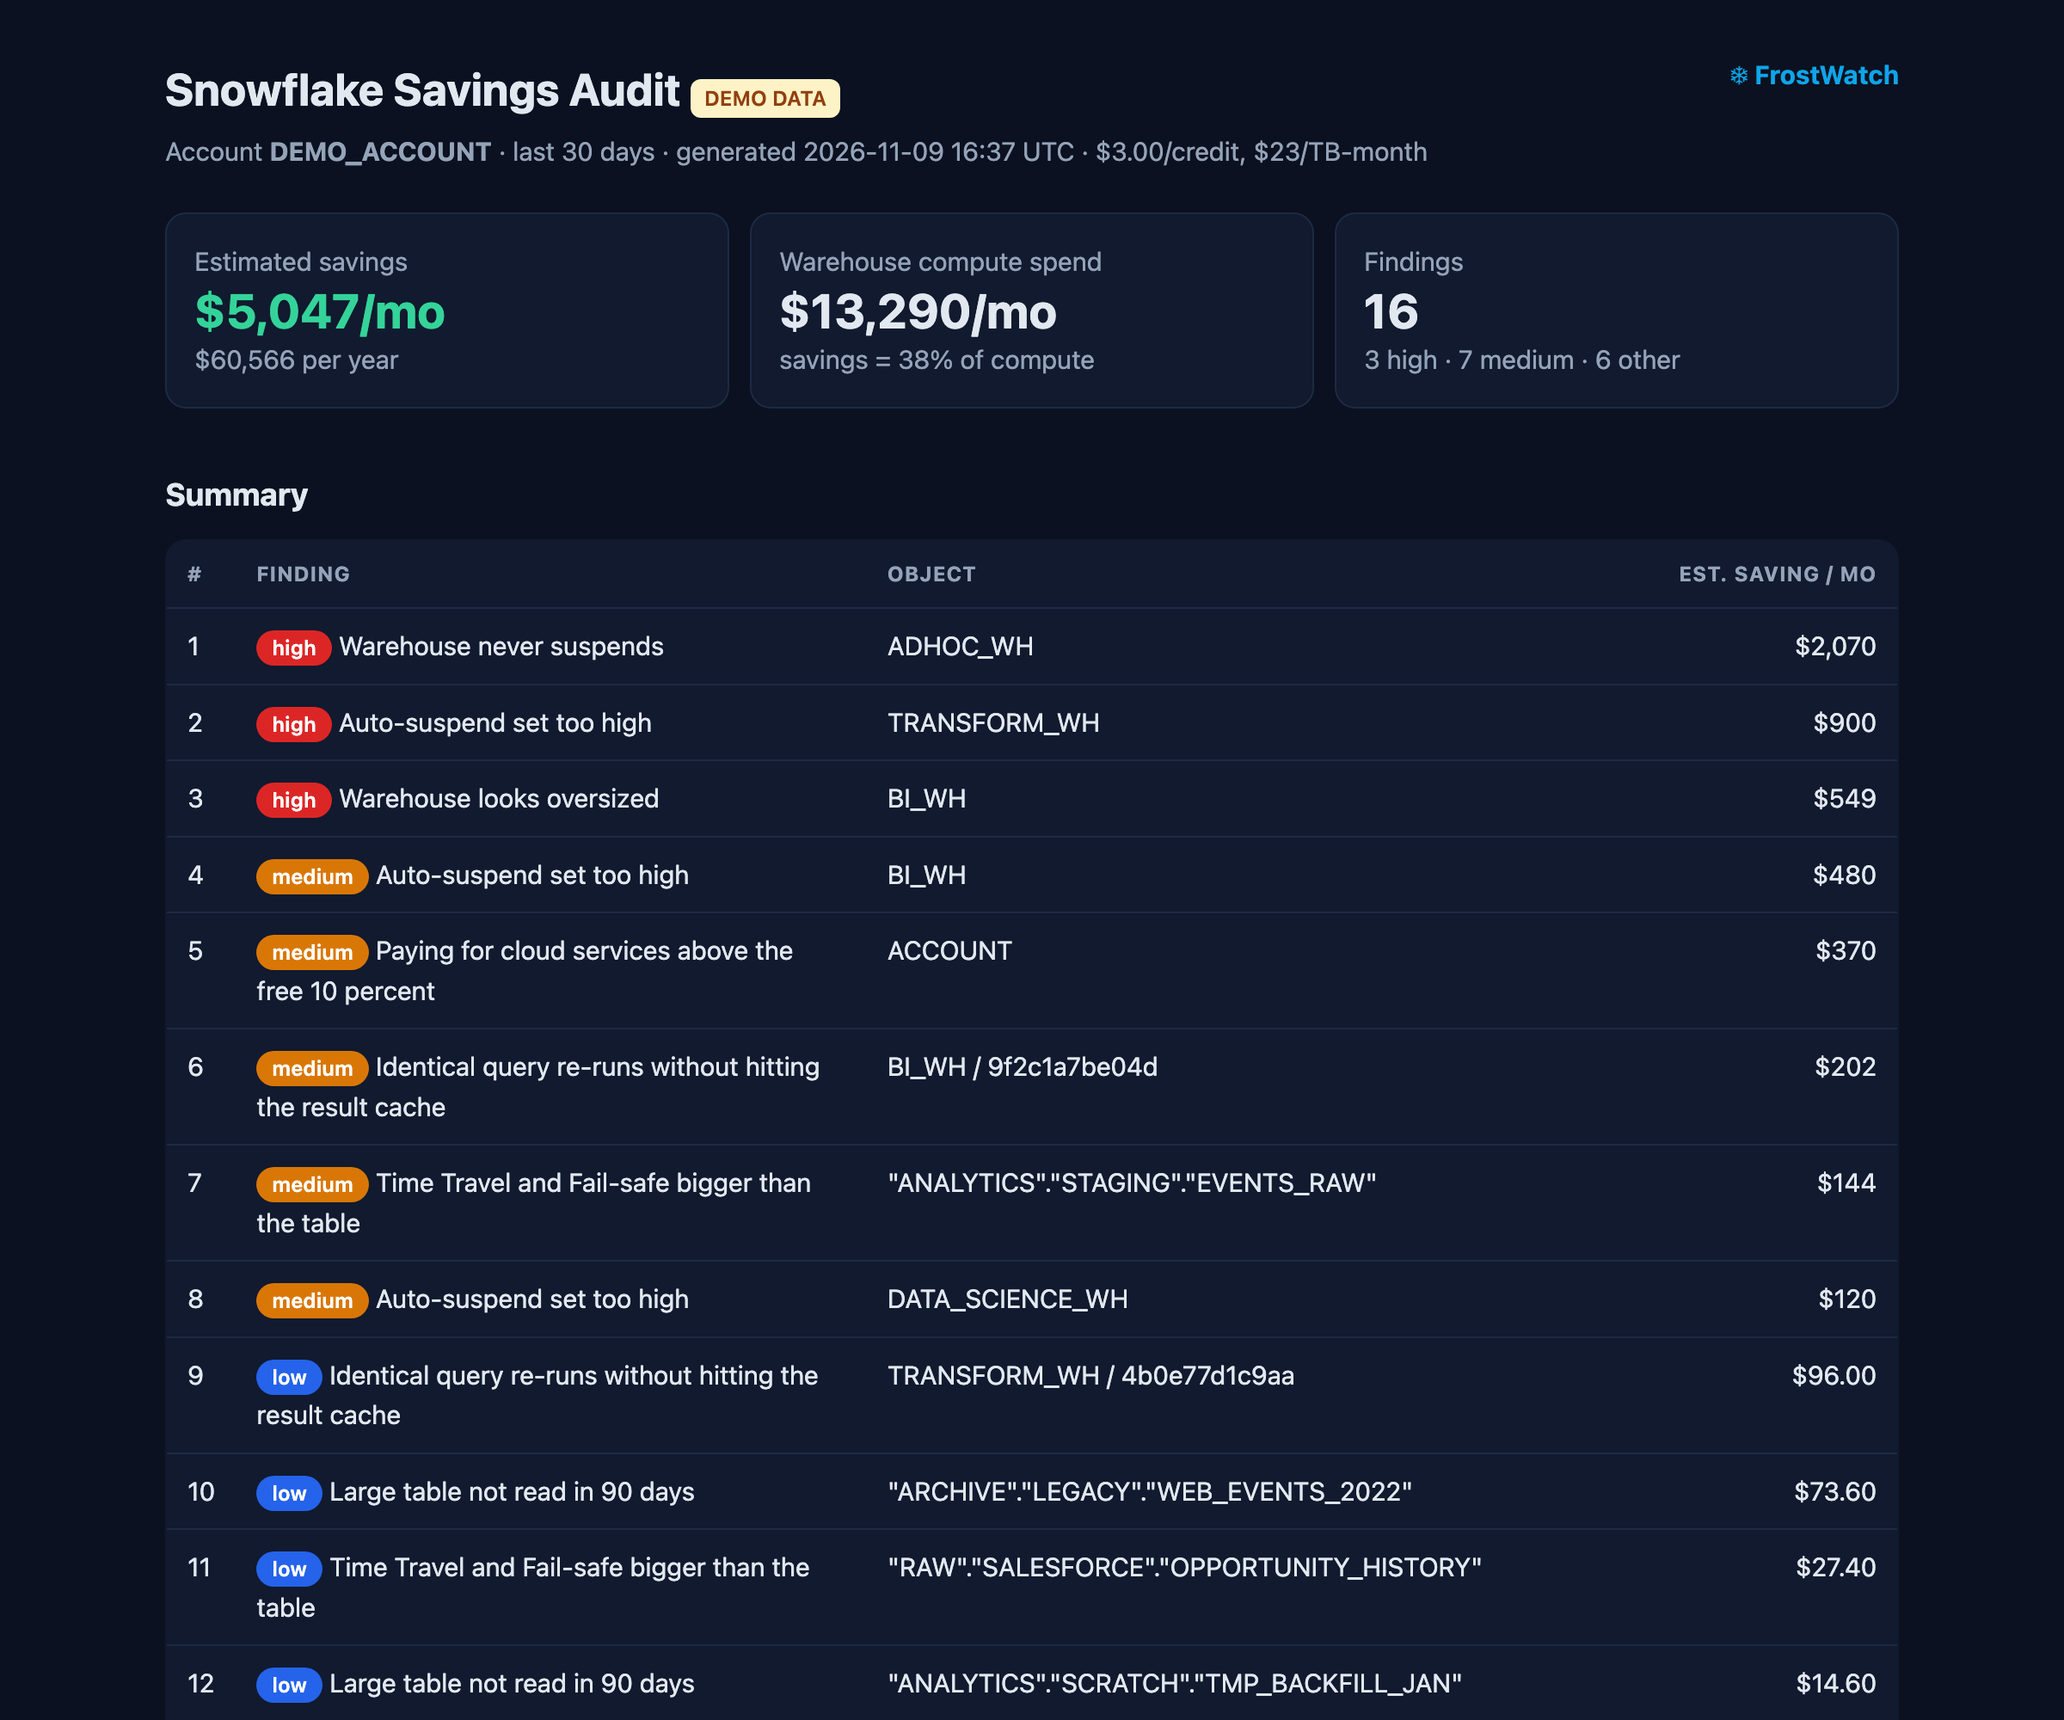
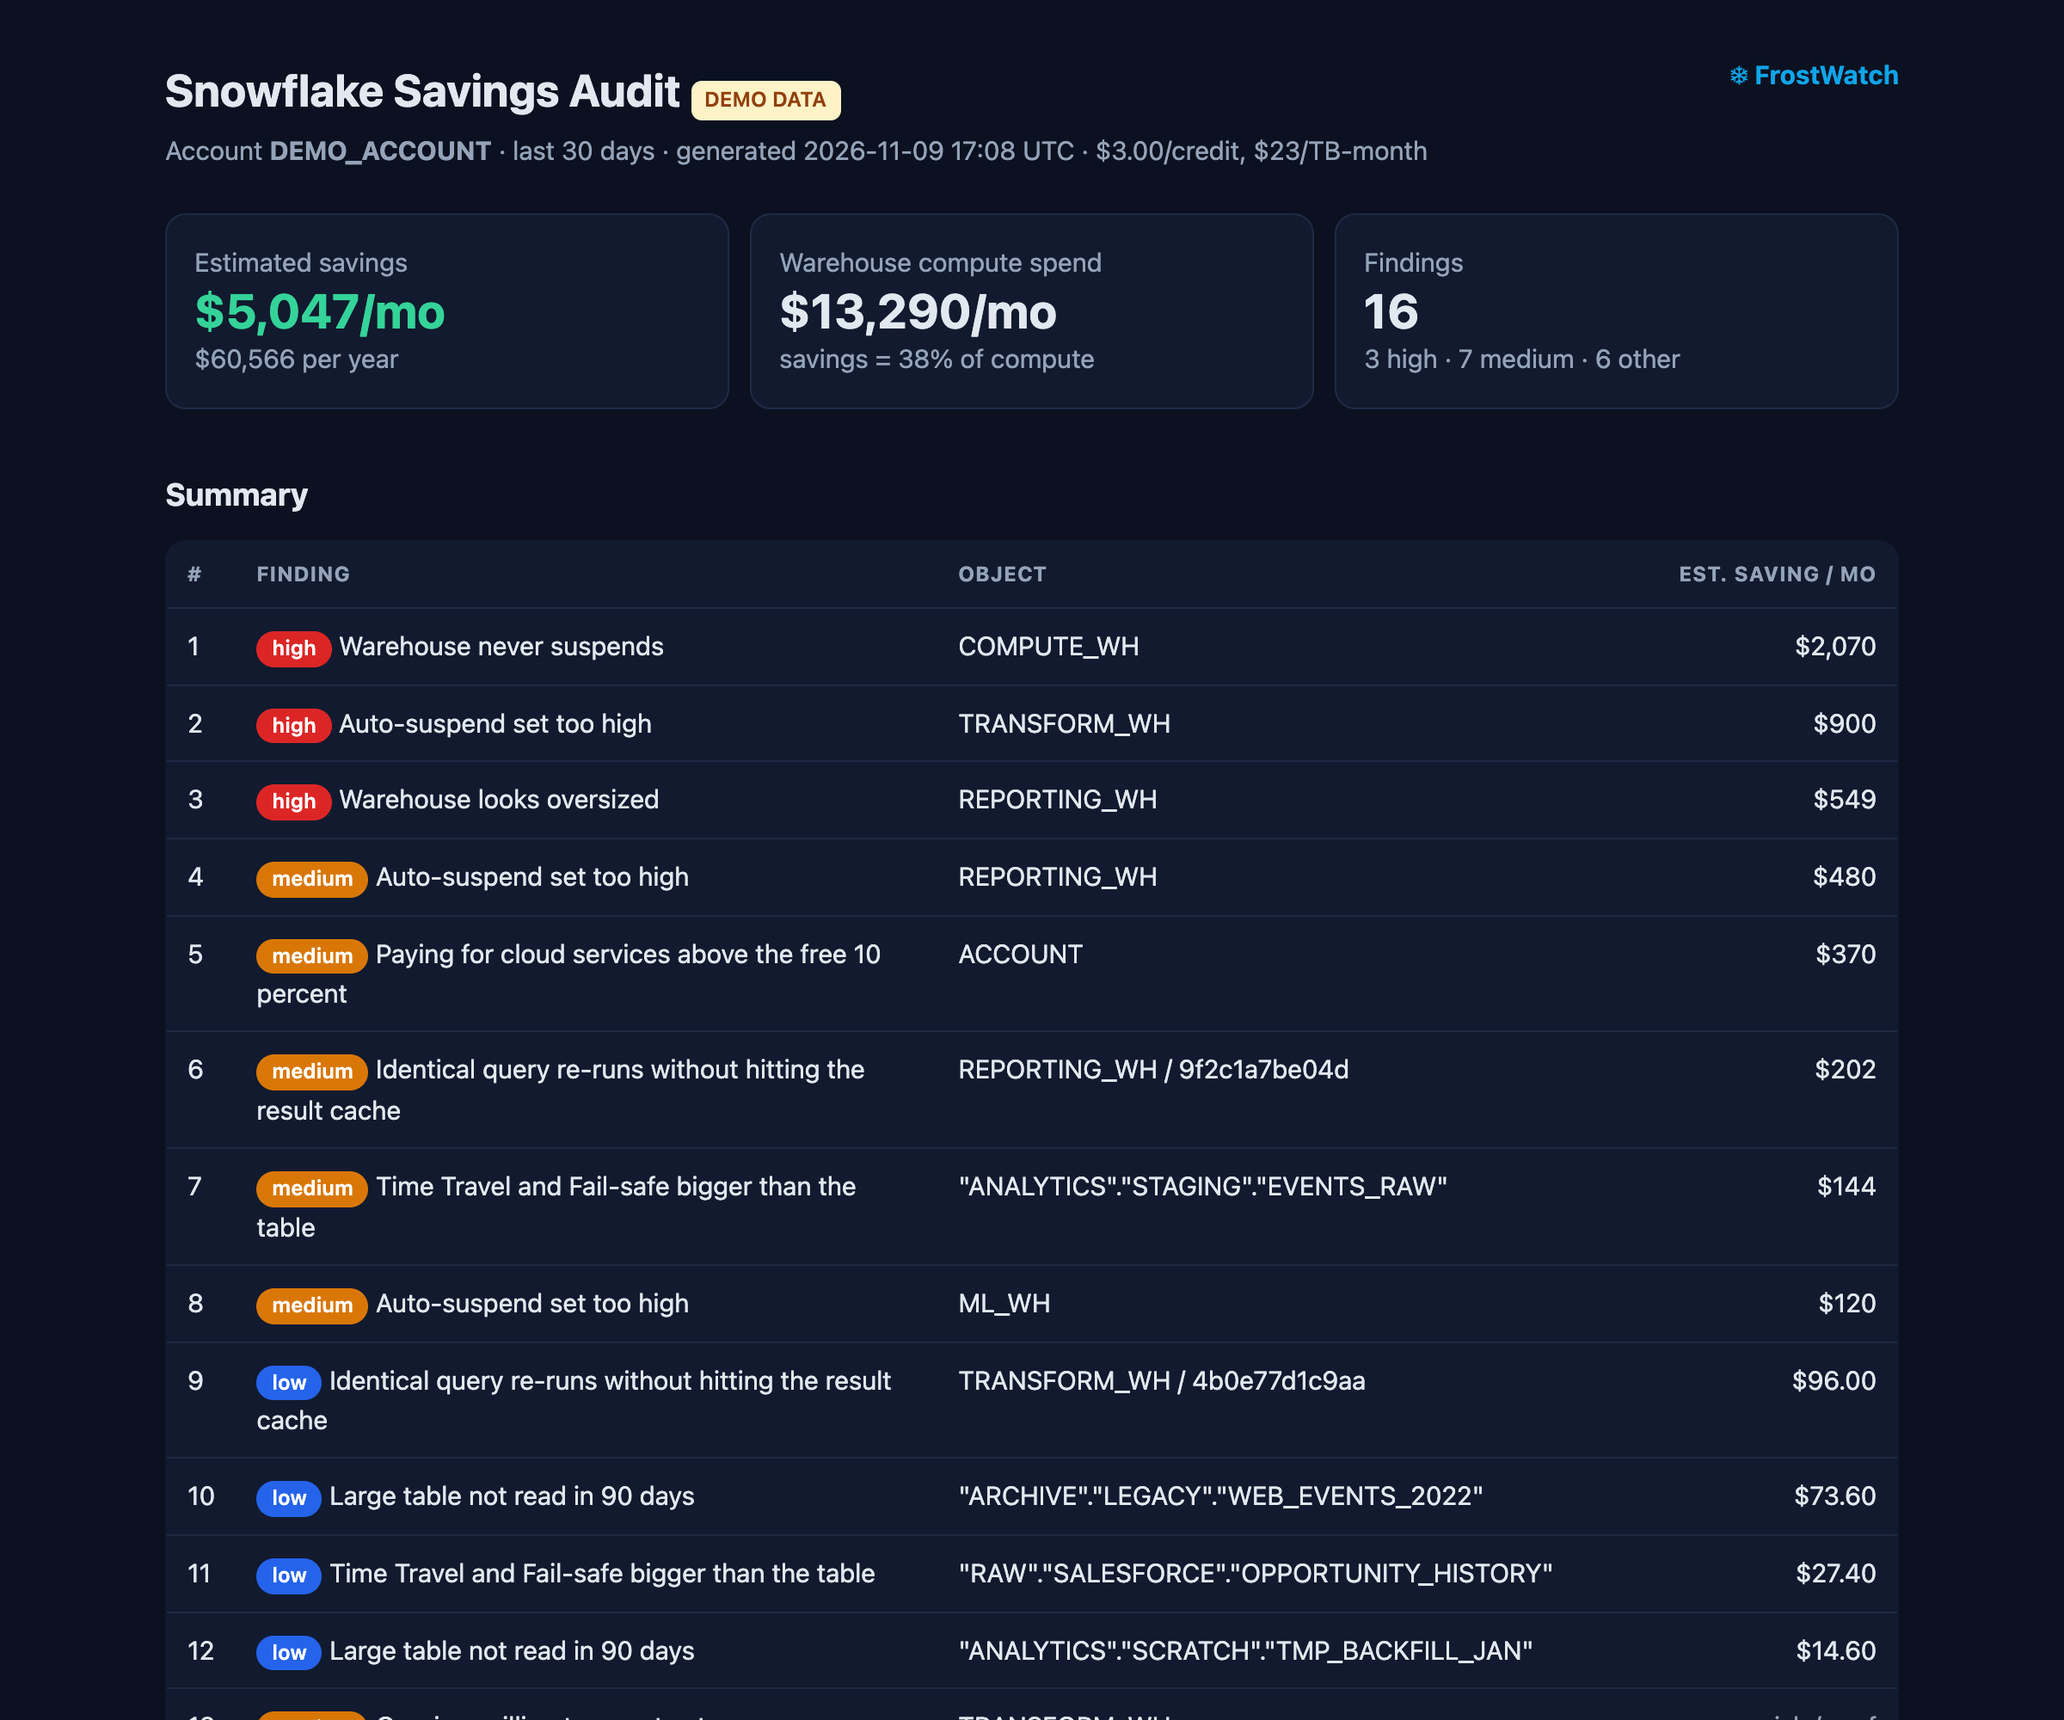
Deployed 3d9e369 with MkDocs version: 1.6.1

diff --git a/sample-audit.html b/sample-audit.html
@@ -45,7 +45,7 @@ footer{margin-top:28px;font-size:13px}a{color:var(--accent)}
   <div>
     <h1>Snowflake Savings Audit <span class="demo">DEMO DATA</span></h1>
     <div class="mute">Account <b>DEMO_ACCOUNT</b> &middot; last 30 days
-      &middot; generated 2026-11-09 16:42 UTC
+      &middot; generated 2026-11-09 17:10 UTC
       &middot; $3.00/credit, $23/TB-month</div>
   </div>
   <a class="brand" href="https://github.com/arunrajiah/frostwatch">&#10052; FrostWatch</a>
@@ -66,7 +66,7 @@ footer{margin-top:28px;font-size:13px}a{color:var(--accent)}
   <tr><th>#</th><th>Finding</th><th>Object</th><th class="num">Est. saving / mo</th></tr>
   
   <tr><td>1</td><td><span class="pill high">high</span> Warehouse never suspends</td>
-    <td class="obj">ADHOC_WH</td>
+    <td class="obj">COMPUTE_WH</td>
     <td class="num">$2,070</td></tr>
   
   <tr><td>2</td><td><span class="pill high">high</span> Auto-suspend set too high</td>
@@ -74,11 +74,11 @@ footer{margin-top:28px;font-size:13px}a{color:var(--accent)}
     <td class="num">$900</td></tr>
   
   <tr><td>3</td><td><span class="pill high">high</span> Warehouse looks oversized</td>
-    <td class="obj">BI_WH</td>
+    <td class="obj">REPORTING_WH</td>
     <td class="num">$549</td></tr>
   
   <tr><td>4</td><td><span class="pill medium">medium</span> Auto-suspend set too high</td>
-    <td class="obj">BI_WH</td>
+    <td class="obj">REPORTING_WH</td>
     <td class="num">$480</td></tr>
   
   <tr><td>5</td><td><span class="pill medium">medium</span> Paying for cloud services above the free 10 percent</td>
@@ -86,7 +86,7 @@ footer{margin-top:28px;font-size:13px}a{color:var(--accent)}
     <td class="num">$370</td></tr>
   
   <tr><td>6</td><td><span class="pill medium">medium</span> Identical query re-runs without hitting the result cache</td>
-    <td class="obj">BI_WH / 9f2c1a7be04d</td>
+    <td class="obj">REPORTING_WH / 9f2c1a7be04d</td>
     <td class="num">$202</td></tr>
   
   <tr><td>7</td><td><span class="pill medium">medium</span> Time Travel and Fail-safe bigger than the table</td>
@@ -94,7 +94,7 @@ footer{margin-top:28px;font-size:13px}a{color:var(--accent)}
     <td class="num">$144</td></tr>
   
   <tr><td>8</td><td><span class="pill medium">medium</span> Auto-suspend set too high</td>
-    <td class="obj">DATA_SCIENCE_WH</td>
+    <td class="obj">ML_WH</td>
     <td class="num">$120</td></tr>
   
   <tr><td>9</td><td><span class="pill low">low</span> Identical query re-runs without hitting the result cache</td>
@@ -118,11 +118,11 @@ footer{margin-top:28px;font-size:13px}a{color:var(--accent)}
     <td class="num"><span class="mute">risk / perf</span></td></tr>
   
   <tr><td>14</td><td><span class="pill medium">medium</span> Warehouses with no spending cap</td>
-    <td class="obj">TRANSFORM_WH, ADHOC_WH, DATA_SCIENCE_WH, LOADING_WH</td>
+    <td class="obj">TRANSFORM_WH, COMPUTE_WH, ML_WH, LOADING_WH</td>
     <td class="num"><span class="mute">risk / perf</span></td></tr>
   
   <tr><td>15</td><td><span class="pill low">low</span> Queries waiting in queue</td>
-    <td class="obj">DATA_SCIENCE_WH</td>
+    <td class="obj">ML_WH</td>
     <td class="num"><span class="mute">risk / perf</span></td></tr>
   
   <tr><td>16</td><td><span class="pill info">info</span> Expensive automatic clustering</td>
@@ -138,10 +138,10 @@ footer{margin-top:28px;font-size:13px}a{color:var(--accent)}
     <span class="mute">Compute</span>
     <span class="save">save ~$2,070/mo</span></div>
   <h3>1. Warehouse never suspends</h3>
-  <div class="obj">ADHOC_WH <span class="mute">&middot; costs $4,140/mo</span></div>
+  <div class="obj">COMPUTE_WH <span class="mute">&middot; costs $4,140/mo</span></div>
   <p><b>Why:</b> AUTO_SUSPEND is off and the warehouse was billed in 690 hourly slots, nearly around the clock.</p>
   <p><b>Fix:</b> Enable auto-suspend so the warehouse stops billing when idle. Savings assume roughly half of its running hours are idle. <a href="https://docs.snowflake.com/en/user-guide/warehouses-considerations">Snowflake docs</a></p>
-  <pre><button class="copy" onclick="cp(this)">Copy</button><code>ALTER WAREHOUSE &#34;ADHOC_WH&#34; SET AUTO_SUSPEND = 60;</code></pre>
+  <pre><button class="copy" onclick="cp(this)">Copy</button><code>ALTER WAREHOUSE &#34;COMPUTE_WH&#34; SET AUTO_SUSPEND = 60;</code></pre>
 </div>
 
 <div class="f" id="f2">
@@ -160,10 +160,10 @@ footer{margin-top:28px;font-size:13px}a{color:var(--accent)}
     <span class="mute">Compute</span>
     <span class="save">save ~$549/mo</span></div>
   <h3>3. Warehouse looks oversized</h3>
-  <div class="obj">BI_WH <span class="mute">&middot; costs $1,830/mo</span></div>
+  <div class="obj">REPORTING_WH <span class="mute">&middot; costs $1,830/mo</span></div>
   <p><b>Why:</b> 48,000 queries on a Medium warehouse: p95 runtime 3.2s, p95 scan 180 MB, no spilling.</p>
   <p><b>Fix:</b> Try one size down (SMALL) for a week and compare runtimes. Small queries rarely get slower, so cost drops close to half; the estimate assumes 30 percent to stay conservative. <a href="https://docs.snowflake.com/en/user-guide/warehouses-considerations">Snowflake docs</a></p>
-  <pre><button class="copy" onclick="cp(this)">Copy</button><code>ALTER WAREHOUSE &#34;BI_WH&#34; SET WAREHOUSE_SIZE = &#39;SMALL&#39;;</code></pre>
+  <pre><button class="copy" onclick="cp(this)">Copy</button><code>ALTER WAREHOUSE &#34;REPORTING_WH&#34; SET WAREHOUSE_SIZE = &#39;SMALL&#39;;</code></pre>
 </div>
 
 <div class="f" id="f4">
@@ -171,10 +171,10 @@ footer{margin-top:28px;font-size:13px}a{color:var(--accent)}
     <span class="mute">Compute</span>
     <span class="save">save ~$480/mo</span></div>
   <h3>4. Auto-suspend set too high</h3>
-  <div class="obj">BI_WH <span class="mute">&middot; costs $1,830/mo</span></div>
+  <div class="obj">REPORTING_WH <span class="mute">&middot; costs $1,830/mo</span></div>
   <p><b>Why:</b> AUTO_SUSPEND = 300s on a Medium warehouse that resumed ~600 times. Each resume burns up to 240s of idle time before suspending.</p>
   <p><b>Fix:</b> Lower AUTO_SUSPEND to 60s. Keep it higher only for BI warehouses that depend on a warm local cache. <a href="https://docs.snowflake.com/en/user-guide/warehouses-considerations">Snowflake docs</a></p>
-  <pre><button class="copy" onclick="cp(this)">Copy</button><code>ALTER WAREHOUSE &#34;BI_WH&#34; SET AUTO_SUSPEND = 60;</code></pre>
+  <pre><button class="copy" onclick="cp(this)">Copy</button><code>ALTER WAREHOUSE &#34;REPORTING_WH&#34; SET AUTO_SUSPEND = 60;</code></pre>
 </div>
 
 <div class="f" id="f5">
@@ -197,7 +197,7 @@ GROUP BY 1, 2 ORDER BY cs_credits DESC LIMIT 20;</code></pre>
     <span class="mute">Compute</span>
     <span class="save">save ~$202/mo</span></div>
   <h3>6. Identical query re-runs without hitting the result cache</h3>
-  <div class="obj">BI_WH / 9f2c1a7be04d <span class="mute">&middot; costs $403/mo</span></div>
+  <div class="obj">REPORTING_WH / 9f2c1a7be04d <span class="mute">&middot; costs $403/mo</span></div>
   <p><b>Why:</b> Ran 8,640 times with identical text and still scanned data each time. Sample: SELECT region, SUM(amount) FROM analytics.marts.fct_orders WHERE order_ts &gt;= DATEADD(day, -7, CURRENT_TIMESTAMP()) GROUP BY 1</p>
   <p><b>Fix:</b> Common causes: CURRENT_TIMESTAMP() or RANDOM() in the SQL, USE_CACHED_RESULT = FALSE on the session, or the source table changes between runs. Remove non-deterministic functions, or materialize the result (dynamic table or scheduled table) for dashboards. <a href="https://docs.snowflake.com/en/user-guide/querying-persisted-results">Snowflake docs</a></p>
   <pre><button class="copy" onclick="cp(this)">Copy</button><code>SHOW PARAMETERS LIKE &#39;USE_CACHED_RESULT&#39; IN ACCOUNT;</code></pre>
@@ -219,10 +219,10 @@ GROUP BY 1, 2 ORDER BY cs_credits DESC LIMIT 20;</code></pre>
     <span class="mute">Compute</span>
     <span class="save">save ~$120/mo</span></div>
   <h3>8. Auto-suspend set too high</h3>
-  <div class="obj">DATA_SCIENCE_WH <span class="mute">&middot; costs $2,700/mo</span></div>
+  <div class="obj">ML_WH <span class="mute">&middot; costs $2,700/mo</span></div>
   <p><b>Why:</b> AUTO_SUSPEND = 120s on a X-Large warehouse that resumed ~150 times. Each resume burns up to 60s of idle time before suspending.</p>
   <p><b>Fix:</b> Lower AUTO_SUSPEND to 60s. Keep it higher only for BI warehouses that depend on a warm local cache. <a href="https://docs.snowflake.com/en/user-guide/warehouses-considerations">Snowflake docs</a></p>
-  <pre><button class="copy" onclick="cp(this)">Copy</button><code>ALTER WAREHOUSE &#34;DATA_SCIENCE_WH&#34; SET AUTO_SUSPEND = 60;</code></pre>
+  <pre><button class="copy" onclick="cp(this)">Copy</button><code>ALTER WAREHOUSE &#34;ML_WH&#34; SET AUTO_SUSPEND = 60;</code></pre>
 </div>
 
 <div class="f" id="f9">
@@ -288,18 +288,18 @@ ORDER BY bytes_spilled_to_remote_storage DESC LIMIT 20;</code></pre>
     <span class="mute">Guardrails</span>
     </div>
   <h3>14. Warehouses with no spending cap</h3>
-  <div class="obj">TRANSFORM_WH, ADHOC_WH, DATA_SCIENCE_WH, LOADING_WH <span class="mute">&middot; costs $11,460/mo</span></div>
+  <div class="obj">TRANSFORM_WH, COMPUTE_WH, ML_WH, LOADING_WH <span class="mute">&middot; costs $11,460/mo</span></div>
   <p><b>Why:</b> 4 warehouse(s) spending $11,460/month have no resource monitor. A runaway query or a forgotten loop has no ceiling.</p>
   <p><b>Fix:</b> Add a monthly monitor per warehouse at about 1.5x normal usage: notify at 80 percent, suspend at 100 percent. Requires ACCOUNTADMIN. <a href="https://docs.snowflake.com/en/user-guide/resource-monitors">Snowflake docs</a></p>
   <pre><button class="copy" onclick="cp(this)">Copy</button><code>CREATE RESOURCE MONITOR &#34;FW_TRANSFORM_WH_MONTHLY&#34; WITH CREDIT_QUOTA = 2180 FREQUENCY = MONTHLY START_TIMESTAMP = IMMEDIATELY
   TRIGGERS ON 80 PERCENT DO NOTIFY ON 100 PERCENT DO SUSPEND ON 120 PERCENT DO SUSPEND_IMMEDIATE;
 ALTER WAREHOUSE &#34;TRANSFORM_WH&#34; SET RESOURCE_MONITOR = &#34;FW_TRANSFORM_WH_MONTHLY&#34;;
-CREATE RESOURCE MONITOR &#34;FW_ADHOC_WH_MONTHLY&#34; WITH CREDIT_QUOTA = 2070 FREQUENCY = MONTHLY START_TIMESTAMP = IMMEDIATELY
+CREATE RESOURCE MONITOR &#34;FW_COMPUTE_WH_MONTHLY&#34; WITH CREDIT_QUOTA = 2070 FREQUENCY = MONTHLY START_TIMESTAMP = IMMEDIATELY
   TRIGGERS ON 80 PERCENT DO NOTIFY ON 100 PERCENT DO SUSPEND ON 120 PERCENT DO SUSPEND_IMMEDIATE;
-ALTER WAREHOUSE &#34;ADHOC_WH&#34; SET RESOURCE_MONITOR = &#34;FW_ADHOC_WH_MONTHLY&#34;;
-CREATE RESOURCE MONITOR &#34;FW_DATA_SCIENCE_WH_MONTHLY&#34; WITH CREDIT_QUOTA = 1350 FREQUENCY = MONTHLY START_TIMESTAMP = IMMEDIATELY
+ALTER WAREHOUSE &#34;COMPUTE_WH&#34; SET RESOURCE_MONITOR = &#34;FW_COMPUTE_WH_MONTHLY&#34;;
+CREATE RESOURCE MONITOR &#34;FW_ML_WH_MONTHLY&#34; WITH CREDIT_QUOTA = 1350 FREQUENCY = MONTHLY START_TIMESTAMP = IMMEDIATELY
   TRIGGERS ON 80 PERCENT DO NOTIFY ON 100 PERCENT DO SUSPEND ON 120 PERCENT DO SUSPEND_IMMEDIATE;
-ALTER WAREHOUSE &#34;DATA_SCIENCE_WH&#34; SET RESOURCE_MONITOR = &#34;FW_DATA_SCIENCE_WH_MONTHLY&#34;;
+ALTER WAREHOUSE &#34;ML_WH&#34; SET RESOURCE_MONITOR = &#34;FW_ML_WH_MONTHLY&#34;;
 CREATE RESOURCE MONITOR &#34;FW_LOADING_WH_MONTHLY&#34; WITH CREDIT_QUOTA = 140 FREQUENCY = MONTHLY START_TIMESTAMP = IMMEDIATELY
   TRIGGERS ON 80 PERCENT DO NOTIFY ON 100 PERCENT DO SUSPEND ON 120 PERCENT DO SUSPEND_IMMEDIATE;
 ALTER WAREHOUSE &#34;LOADING_WH&#34; SET RESOURCE_MONITOR = &#34;FW_LOADING_WH_MONTHLY&#34;;</code></pre>
@@ -310,10 +310,10 @@ ALTER WAREHOUSE &#34;LOADING_WH&#34; SET RESOURCE_MONITOR = &#34;FW_LOADING_WH_M
     <span class="mute">Performance</span>
     </div>
   <h3>15. Queries waiting in queue</h3>
-  <div class="obj">DATA_SCIENCE_WH <span class="mute">&middot; costs $2,700/mo</span></div>
+  <div class="obj">ML_WH <span class="mute">&middot; costs $2,700/mo</span></div>
   <p><b>Why:</b> Queries spent 40.0h queued vs 200.0h executing (20%).</p>
   <p><b>Fix:</b> Concurrency, not size, is the bottleneck. Use a multi-cluster warehouse (Enterprise) with a low MAX_CLUSTER_COUNT, or split workloads onto separate warehouses. Upsizing would overpay. <a href="https://docs.snowflake.com/en/user-guide/warehouses-multicluster">Snowflake docs</a></p>
-  <pre><button class="copy" onclick="cp(this)">Copy</button><code>ALTER WAREHOUSE &#34;DATA_SCIENCE_WH&#34; SET MIN_CLUSTER_COUNT = 1 MAX_CLUSTER_COUNT = 3 SCALING_POLICY = &#39;ECONOMY&#39;;</code></pre>
+  <pre><button class="copy" onclick="cp(this)">Copy</button><code>ALTER WAREHOUSE &#34;ML_WH&#34; SET MIN_CLUSTER_COUNT = 1 MAX_CLUSTER_COUNT = 3 SCALING_POLICY = &#39;ECONOMY&#39;;</code></pre>
 </div>
 
 <div class="f" id="f16">
@@ -340,7 +340,7 @@ ALTER WAREHOUSE &#34;LOADING_WH&#34; SET RESOURCE_MONITOR = &#34;FW_LOADING_WH_M
 </div>
 <footer class="mute">Estimates are directional, based on ACCOUNT_USAGE history and list prices you can override
 (<code>--price</code>, <code>--storage-price</code>). FrostWatch never changes your account: every fix above is SQL for you to review and run.
-Generated by FrostWatch v0.5.0.</footer>
+Generated by FrostWatch v0.5.1.</footer>
 </div>
 <script>function cp(b){navigator.clipboard.writeText(b.nextElementSibling.innerText).then(function(){b.textContent='Copied';setTimeout(function(){b.textContent='Copy'},1500)})}</script>
 </body></html>
